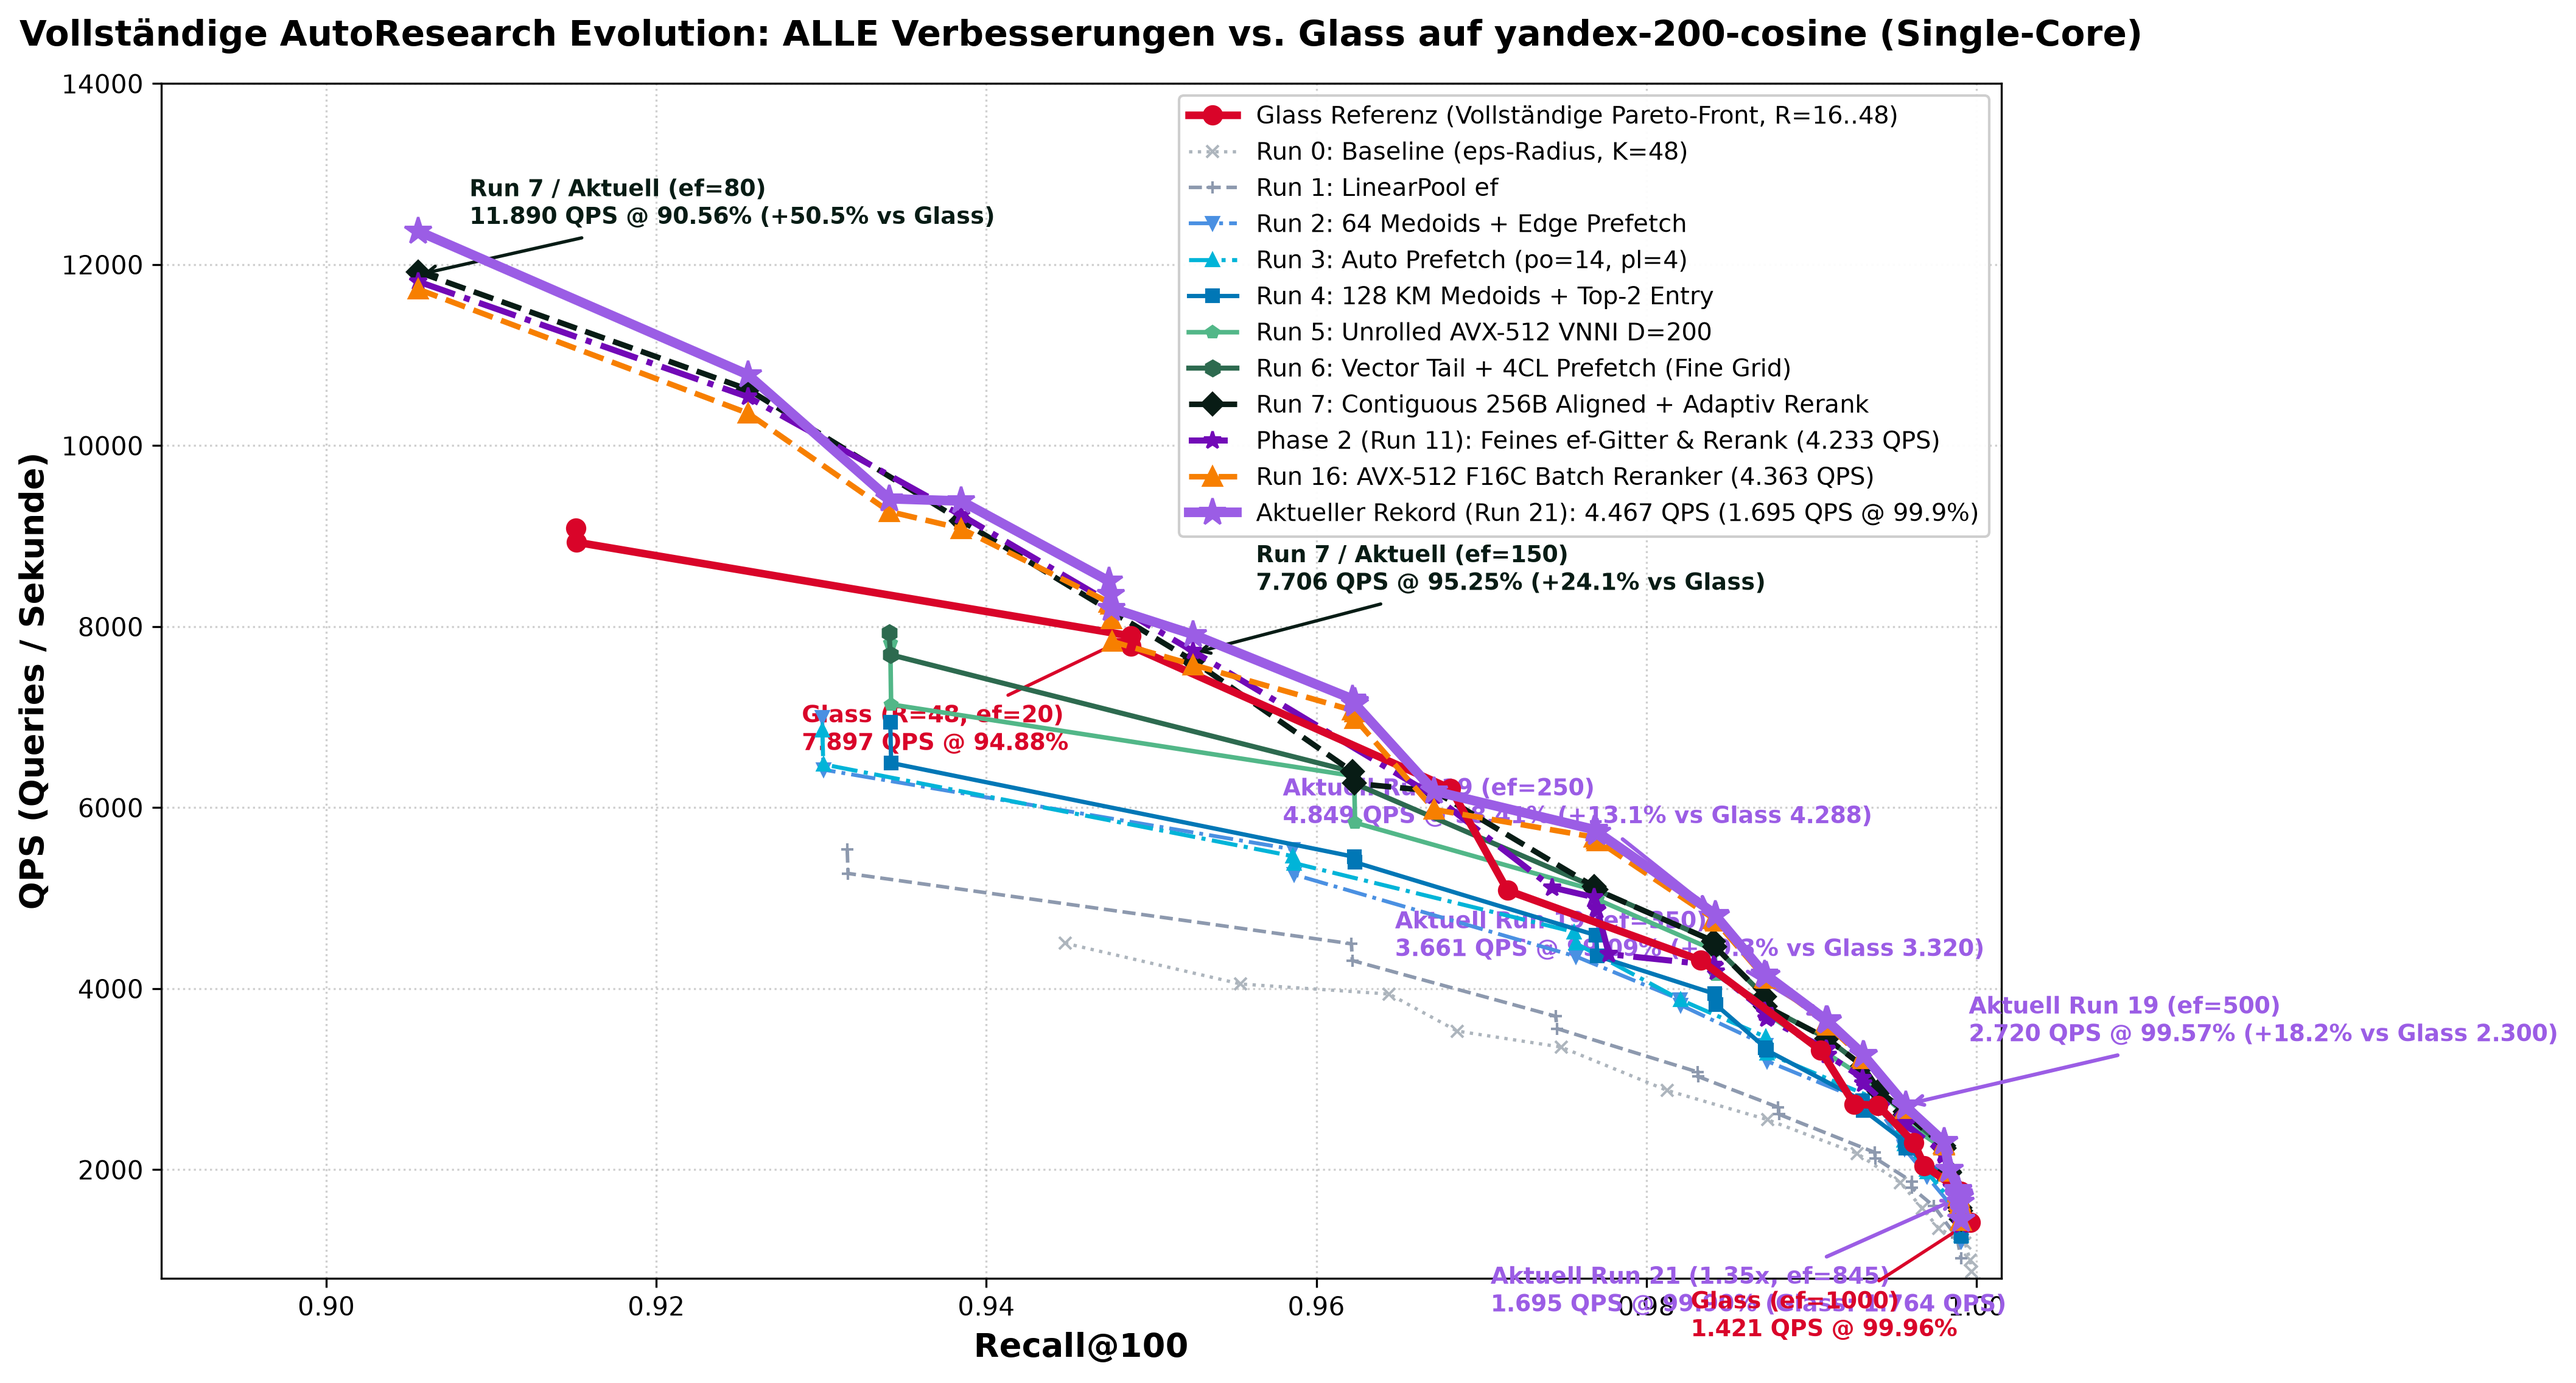
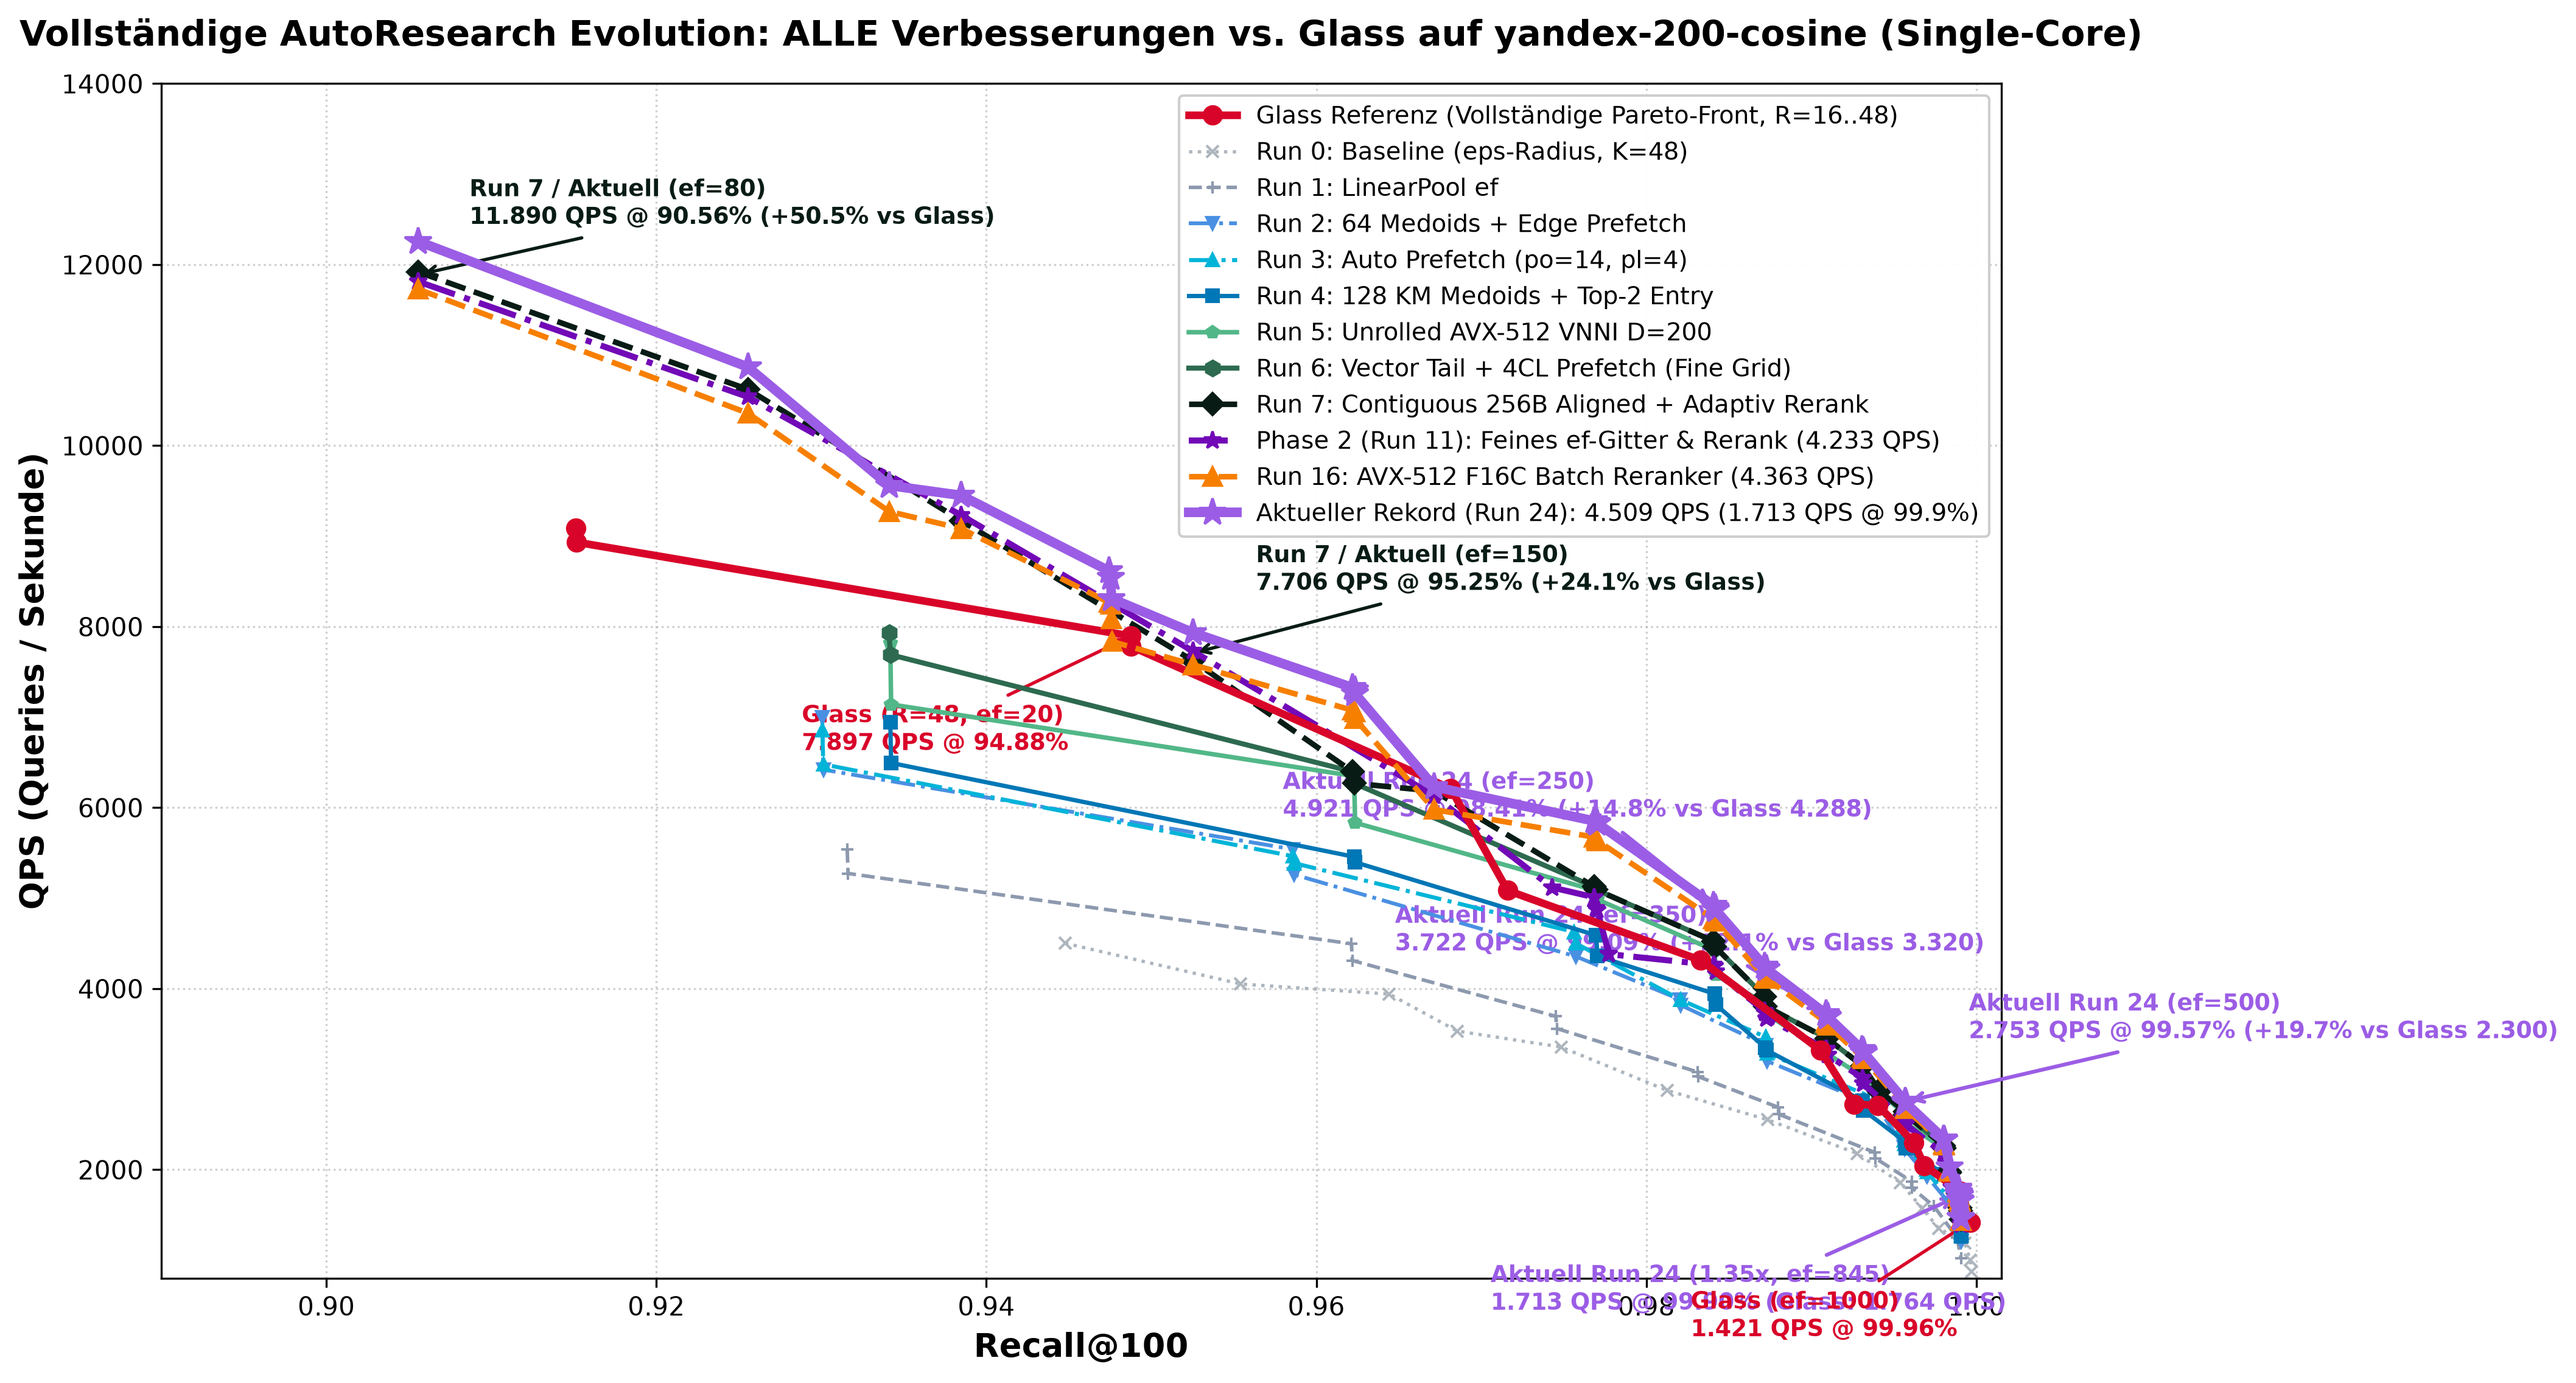
docs(plot): update comparison plot with Run 24 all-time record (4508.9 QPS, 1713.4 QPS @ 99.9%)

diff --git a/plot_comparison.py b/plot_comparison.py
@@ -68,8 +68,8 @@ def main():
         "r16": (get_pareto_frontier(load_run("results/yandex-200-cosine/deg_qg_summary_top100_run16_latest.json")), {
             "color": "#F77F00", "label": "Run 16: AVX-512 F16C Batch Reranker (4.363 QPS)", "marker": "^", "lw": 2.2, "ms": 7, "ls": "--", "zorder": 13
         }),
-        "r21": (get_pareto_frontier(load_run("results/yandex-200-cosine/deg_qg_autoresearch_latest.json")), {
-            "color": "#9B5DE5", "label": "Aktueller Rekord (Run 21): 4.467 QPS (1.695 QPS @ 99.9%)", "marker": "*", "lw": 3.8, "ms": 11, "zorder": 16
+        "r24": (get_pareto_frontier(load_run("results/yandex-200-cosine/deg_qg_autoresearch_latest.json")), {
+            "color": "#9B5DE5", "label": "Aktueller Rekord (Run 24): 4.509 QPS (1.713 QPS @ 99.9%)", "marker": "*", "lw": 3.8, "ms": 11, "zorder": 16
         }),
     }
 
@@ -97,13 +97,13 @@ def main():
                 arrowprops=dict(arrowstyle="->", color="#D90429", lw=1.3), fontsize=9, color="#D90429", fontweight="bold")
     ax.annotate("Run 7 / Aktuell (ef=150)\n7.706 QPS @ 95.25% (+24.1% vs Glass)", (0.9525, 7706.4), textcoords="offset points", xytext=(25, 25),
                 arrowprops=dict(arrowstyle="->", color="#081C15", lw=1.3), fontsize=9, color="#081C15", fontweight="bold")
-    ax.annotate("Aktuell Run 19 (ef=250)\n4.849 QPS @ 98.41% (+13.1% vs Glass 4.288)", (0.9841, 4848.9), textcoords="offset points", xytext=(-170, 35),
+    ax.annotate("Aktuell Run 24 (ef=250)\n4.921 QPS @ 98.41% (+14.8% vs Glass 4.288)", (0.9841, 4920.8), textcoords="offset points", xytext=(-170, 35),
                 arrowprops=dict(arrowstyle="->", color="#9B5DE5", lw=1.5), fontsize=9, color="#9B5DE5", fontweight="bold")
-    ax.annotate("Aktuell Run 19 (ef=350)\n3.661 QPS @ 99.09% (+10.3% vs Glass 3.320)", (0.9909, 3660.7), textcoords="offset points", xytext=(-170, 25),
+    ax.annotate("Aktuell Run 24 (ef=350)\n3.722 QPS @ 99.09% (+12.1% vs Glass 3.320)", (0.9909, 3722.3), textcoords="offset points", xytext=(-170, 25),
                 arrowprops=dict(arrowstyle="->", color="#9B5DE5", lw=1.5), fontsize=9, color="#9B5DE5", fontweight="bold")
-    ax.annotate("Aktuell Run 19 (ef=500)\n2.720 QPS @ 99.57% (+18.2% vs Glass 2.300)", (0.9957, 2719.5), textcoords="offset points", xytext=(25, 25),
+    ax.annotate("Aktuell Run 24 (ef=500)\n2.753 QPS @ 99.57% (+19.7% vs Glass 2.300)", (0.9957, 2753.1), textcoords="offset points", xytext=(25, 25),
                 arrowprops=dict(arrowstyle="->", color="#9B5DE5", lw=1.5), fontsize=9, color="#9B5DE5", fontweight="bold")
-    ax.annotate("Aktuell Run 21 (1.35x, ef=845)\n1.695 QPS @ 99.90% (Glass: 1.764 QPS)", (0.9990, 1694.8), textcoords="offset points", xytext=(-185, -45),
+    ax.annotate("Aktuell Run 24 (1.35x, ef=845)\n1.713 QPS @ 99.90% (Glass: 1.764 QPS)", (0.9990, 1713.4), textcoords="offset points", xytext=(-185, -45),
                 arrowprops=dict(arrowstyle="->", color="#9B5DE5", lw=1.5), fontsize=9, color="#9B5DE5", fontweight="bold")
     ax.annotate("Glass (ef=1000)\n1.421 QPS @ 99.96%", (0.9996, 1421.0), textcoords="offset points", xytext=(-110, -45),
                 arrowprops=dict(arrowstyle="->", color="#D90429", lw=1.3), fontsize=9, color="#D90429", fontweight="bold")
